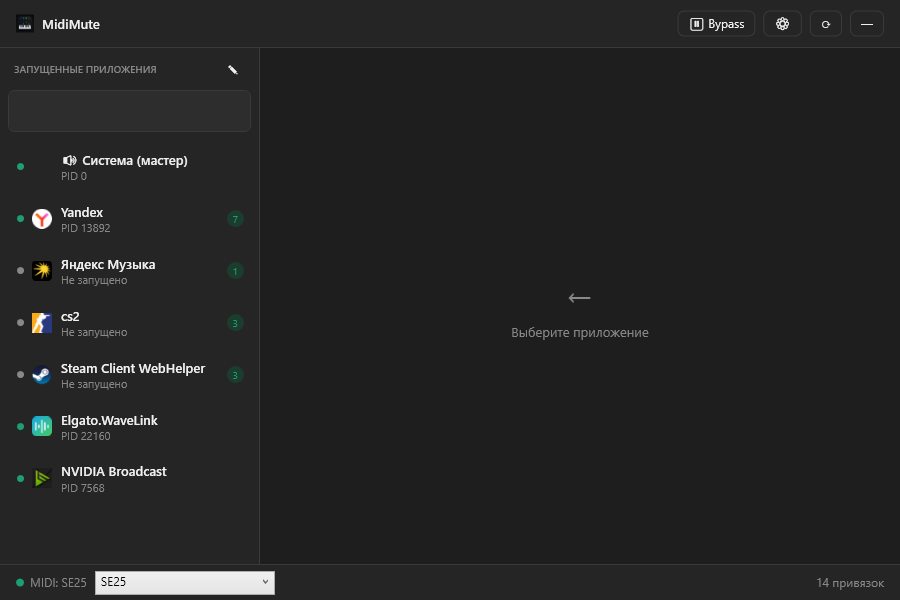
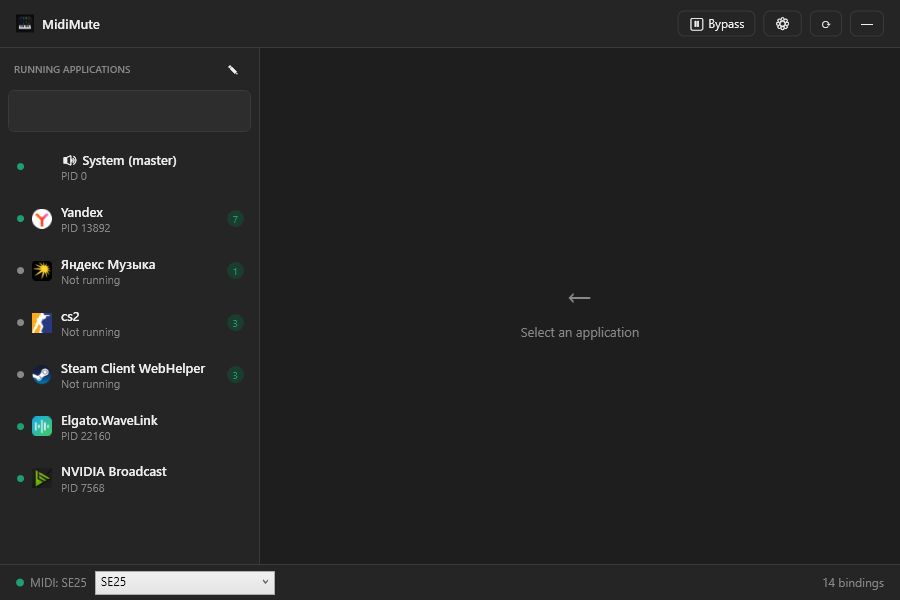
Update README screenshots

diff --git a/README.md b/README.md
@@ -6,6 +6,8 @@ MidiMute is a small Windows utility for binding MIDI keys to per-app audio actio
 
 ![MidiMute main window](assets/screenshots/main-window.png)
 
+![MidiMute selected app with MIDI bindings](assets/screenshots/selected-app.png)
+
 ## Features
 
 - Per-app volume control for active Windows audio sessions.
